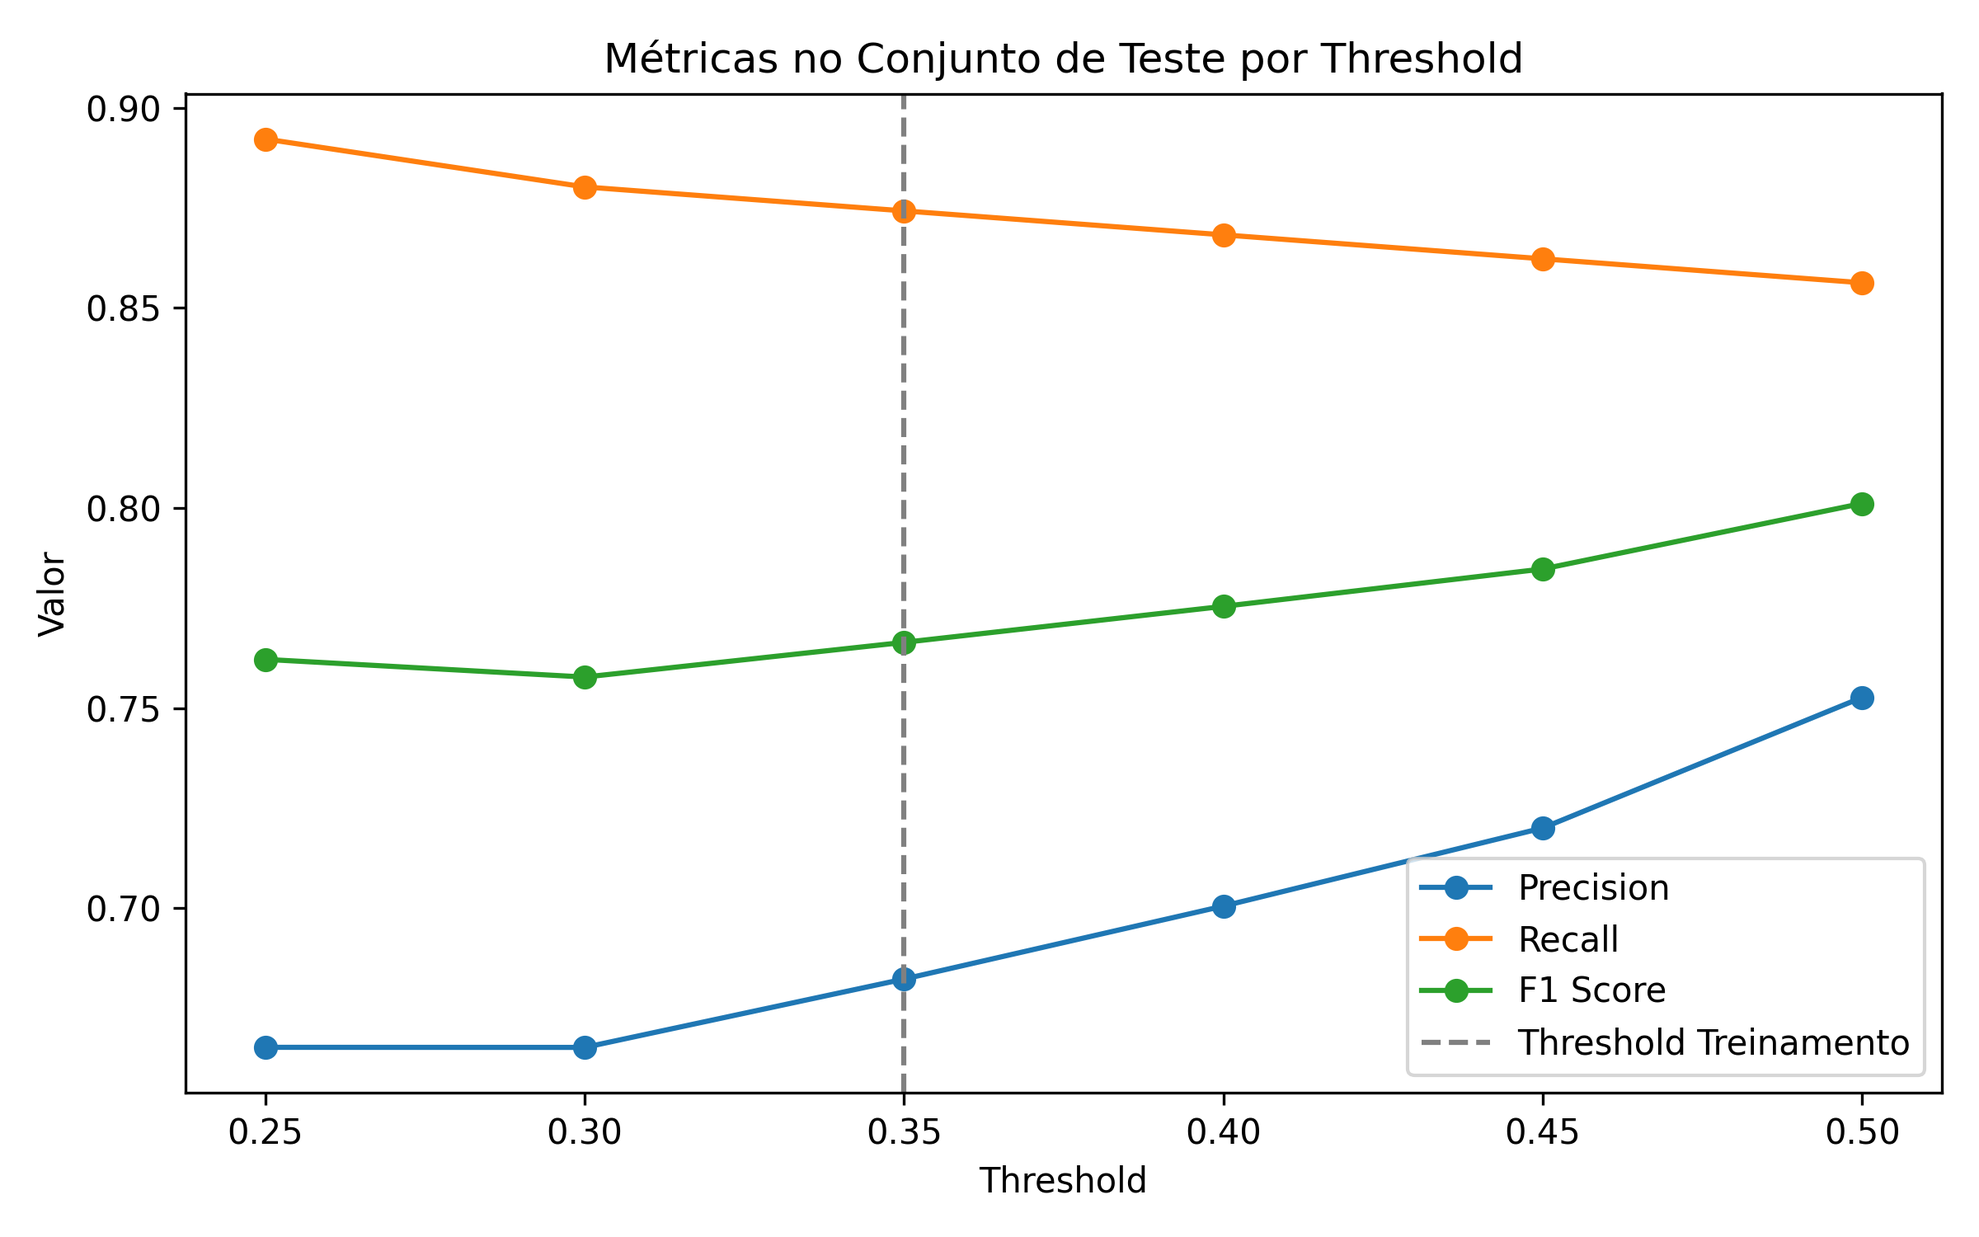
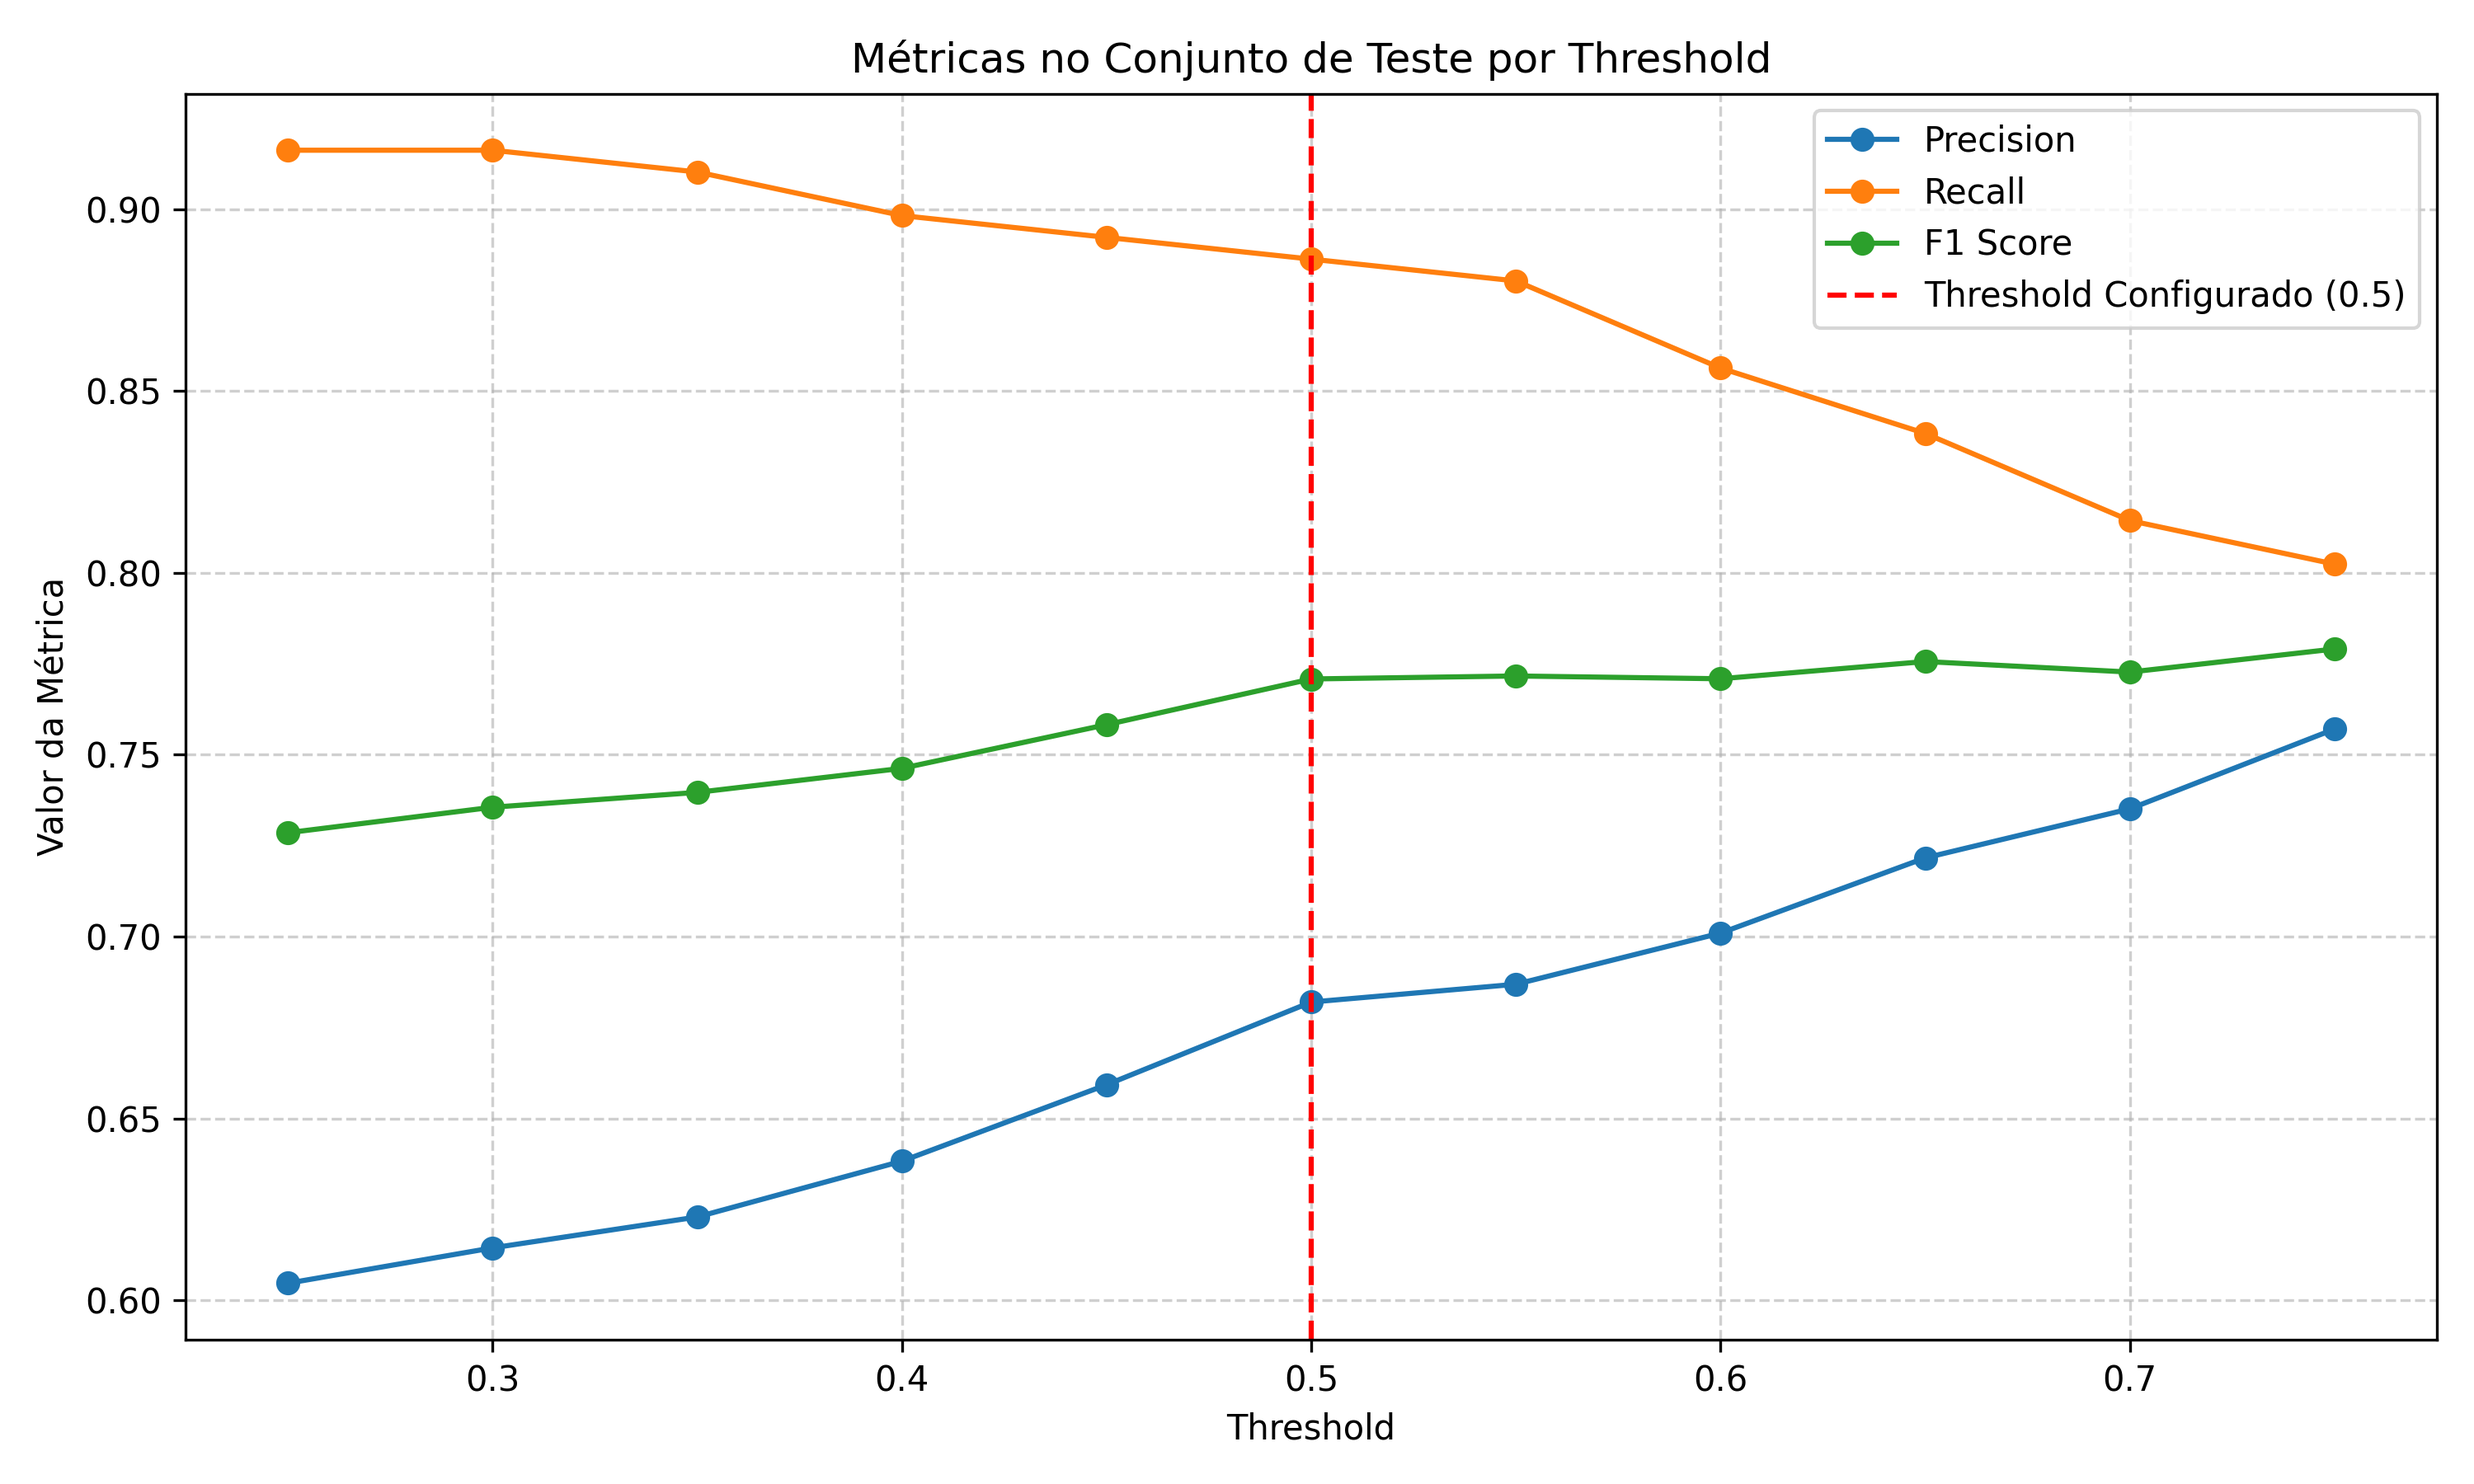
Atualizado 15:20
Código separado em funções, relatorio completo criado, código otimizado e mais equilibrado.

diff --git a/rna.py b/rna.py
@@ -189,10 +189,12 @@ def run_training(config, model, train_dl, val_dl, pos_weight):
     return history
 
 def generate_final_report(config, model, test_dl):
+    """Carrega o melhor modelo, gera a análise multi-threshold e o relatório final."""
     print("\n--- Iniciando Avaliação Final no Conjunto de Teste ---")
     model.load_state_dict(torch.load("resultados/best_model.pt"))
     model.eval()
 
+    # Etapa 1: Obter as previsões do modelo no conjunto de teste
     y_true, y_prob = [], []
     with torch.no_grad():
         for imgs, lbls in tqdm(test_dl, desc="Teste Final"):
@@ -201,6 +203,45 @@ def generate_final_report(config, model, test_dl):
             y_prob.extend(torch.sigmoid(logits).cpu().tolist())
             y_true.extend(lbls.tolist())
     
+    # --- INÍCIO DA ANÁLISE MULTI-THRESHOLD (FUNCIONALIDADE REINTEGRADA) ---
+    print("\n--- Avaliação com Diferentes Thresholds ---")
+    
+    # Define uma faixa de thresholds para testar (mais granular que antes)
+    thresholds_to_test = np.arange(0.25, 0.76, 0.05) 
+    precision_list, recall_list, f1_list = [], [], []
+
+    for thresh in thresholds_to_test:
+        y_pred = [1 if p > thresh else 0 for p in y_prob]
+        prec = precision_score(y_true, y_pred, zero_division=0)
+        rec = recall_score(y_true, y_pred, zero_division=0)
+        f1 = f1_score(y_true, y_pred, zero_division=0)
+        
+        precision_list.append(prec)
+        recall_list.append(rec)
+        f1_list.append(f1)
+        print(f"Threshold={thresh:.2f} | Precision: {prec:.2f} | Recall: {rec:.2f} | F1: {f1:.2f}")
+
+    # Plotar o gráfico de métricas vs. threshold
+    plt.figure(figsize=(10, 6))
+    plt.plot(thresholds_to_test, precision_list, marker='o', label='Precision')
+    plt.plot(thresholds_to_test, recall_list, marker='o', label='Recall')
+    plt.plot(thresholds_to_test, f1_list, marker='o', label='F1 Score')
+    
+    # Adiciona a linha vertical mostrando o threshold usado no relatório final
+    plt.axvline(config['THRESHOLD'], color='red', linestyle='--', label=f"Threshold Configurado ({config['THRESHOLD']})")
+    
+    plt.xlabel("Threshold")
+    plt.ylabel("Valor da Métrica")
+    plt.title("Métricas no Conjunto de Teste por Threshold")
+    plt.legend()
+    plt.grid(True, linestyle='--', alpha=0.6)
+    plt.tight_layout()
+    plt.savefig("resultados/avaliacao_thresholds.png", dpi=300)
+    plt.show()
+    # --- FIM DA ANÁLISE MULTI-THRESHOLD ---
+
+    # Etapa 2: Gerar o relatório final com o threshold definido no config
+    print(f"\n--- Relatório Final com Threshold={config['THRESHOLD']} ---")
     y_pred_final = [1 if p > config['THRESHOLD'] else 0 for p in y_prob]
     
     report = classification_report(y_true, y_pred_final, target_names=['Nevo (nv)', 'Melanoma (mel)'])
@@ -209,22 +250,24 @@ def generate_final_report(config, model, test_dl):
     print(report)
     print(f"AUC da Curva ROC: {roc_auc:.4f}")
 
+    # Salva o relatório em arquivo
     with open("resultados/relatorio_teste.txt", "w") as f:
-        f.write("===== Relatório Final no Conjunto de Teste =====\n")
+        f.write(f"===== Relatório Final no Conjunto de Teste (Threshold={config['THRESHOLD']}) =====\n")
         f.write(report)
         f.write(f"\nAUC da Curva ROC: {roc_auc:.4f}\n")
         
+    # Gera e salva a matriz de confusão
     cm = confusion_matrix(y_true, y_pred_final)
     disp = ConfusionMatrixDisplay(confusion_matrix=cm, display_labels=["Nevo", "Melanoma"])
     disp.plot(cmap='Blues', values_format='d')
-    plt.title("Matriz de Confusão - Conjunto de Teste")
+    plt.title(f"Matriz de Confusão (Threshold={config['THRESHOLD']})")
     plt.tight_layout()
     plt.savefig("resultados/matriz_confusao.png", dpi=300)
     plt.show()
 
 if __name__ == '__main__':
     
-    config = get_config()
+    config = get_config() 
     print(config['THRESHOLD'])
     random.seed(config['SEED'])
     np.random.seed(config['SEED'])
